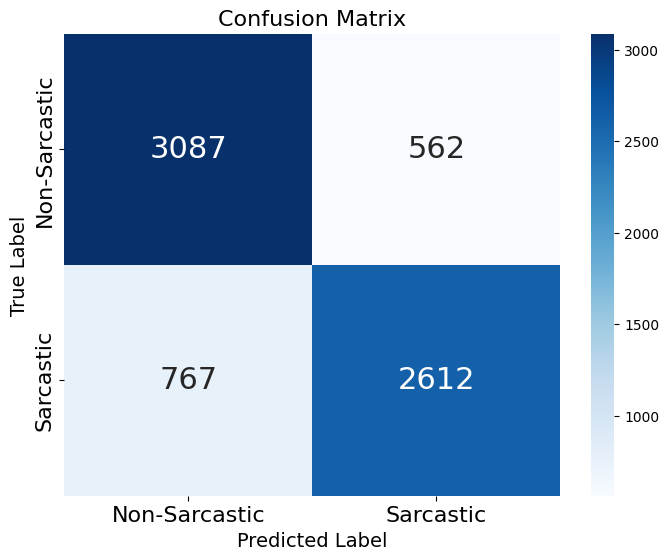
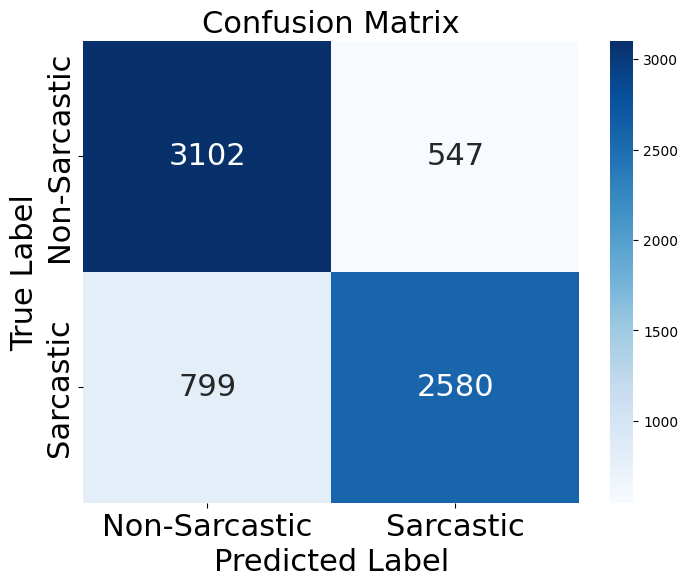
Updated Visuals

diff --git a/Bi-LSTM/Bi-LSTM.py b/Bi-LSTM/Bi-LSTM.py
@@ -146,9 +146,11 @@ sns.heatmap(cm, annot=True, fmt='d', cmap='Blues',
            xticklabels=['Not Sarcastic', 'Sarcastic'],
            yticklabels=['Not Sarcastic', 'Sarcastic'],
            annot_kws={"size": 22})
-plt.title('Confusion Matrix')
-plt.ylabel('True Label')
-plt.xlabel('Predicted Label')
+plt.title('Confusion Matrix', fontsize = 22)
+plt.ylabel('True Label', fontsize = 22)
+plt.xlabel('Predicted Label', fontsize = 22)
+plt.xticks(fontsize=22)
+plt.yticks(fontsize=22)
 plt.savefig(os.path.join(OUTPUT_DIR, 'confusion_matrix.png'), dpi=300, bbox_inches='tight')
 plt.close()
 

diff --git a/Bi-GRU/Bi-GRU.py b/Bi-GRU/Bi-GRU.py
@@ -152,11 +152,11 @@ sns.heatmap(
     yticklabels=['Non-Sarcastic', 'Sarcastic'],
     annot_kws={"size": 22} 
 )
-plt.title('Confusion Matrix', fontsize=16)
-plt.ylabel('True Label', fontsize=14)
-plt.xlabel('Predicted Label', fontsize=14)
-plt.xticks(fontsize=16)
-plt.yticks(fontsize=16)
+plt.title('Confusion Matrix', fontsize=22)
+plt.ylabel('True Label', fontsize=22)
+plt.xlabel('Predicted Label', fontsize=22)
+plt.xticks(fontsize=22)
+plt.yticks(fontsize=22)
 plt.savefig(os.path.join('sarcasm_outputs', 'confusion_matrix.png'), bbox_inches='tight')
 plt.close()
 
